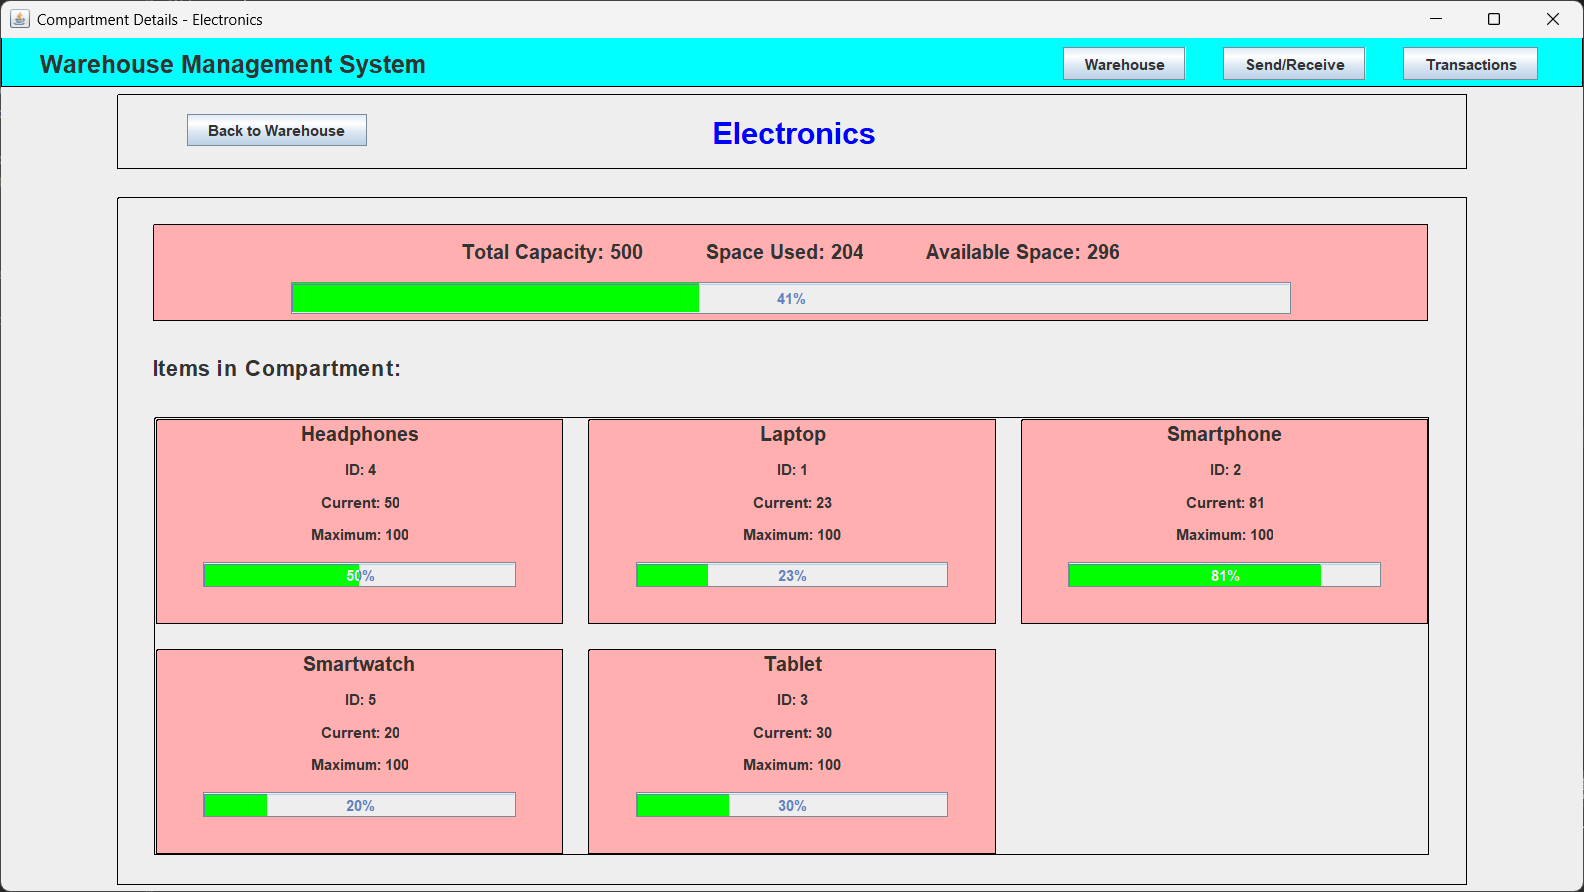
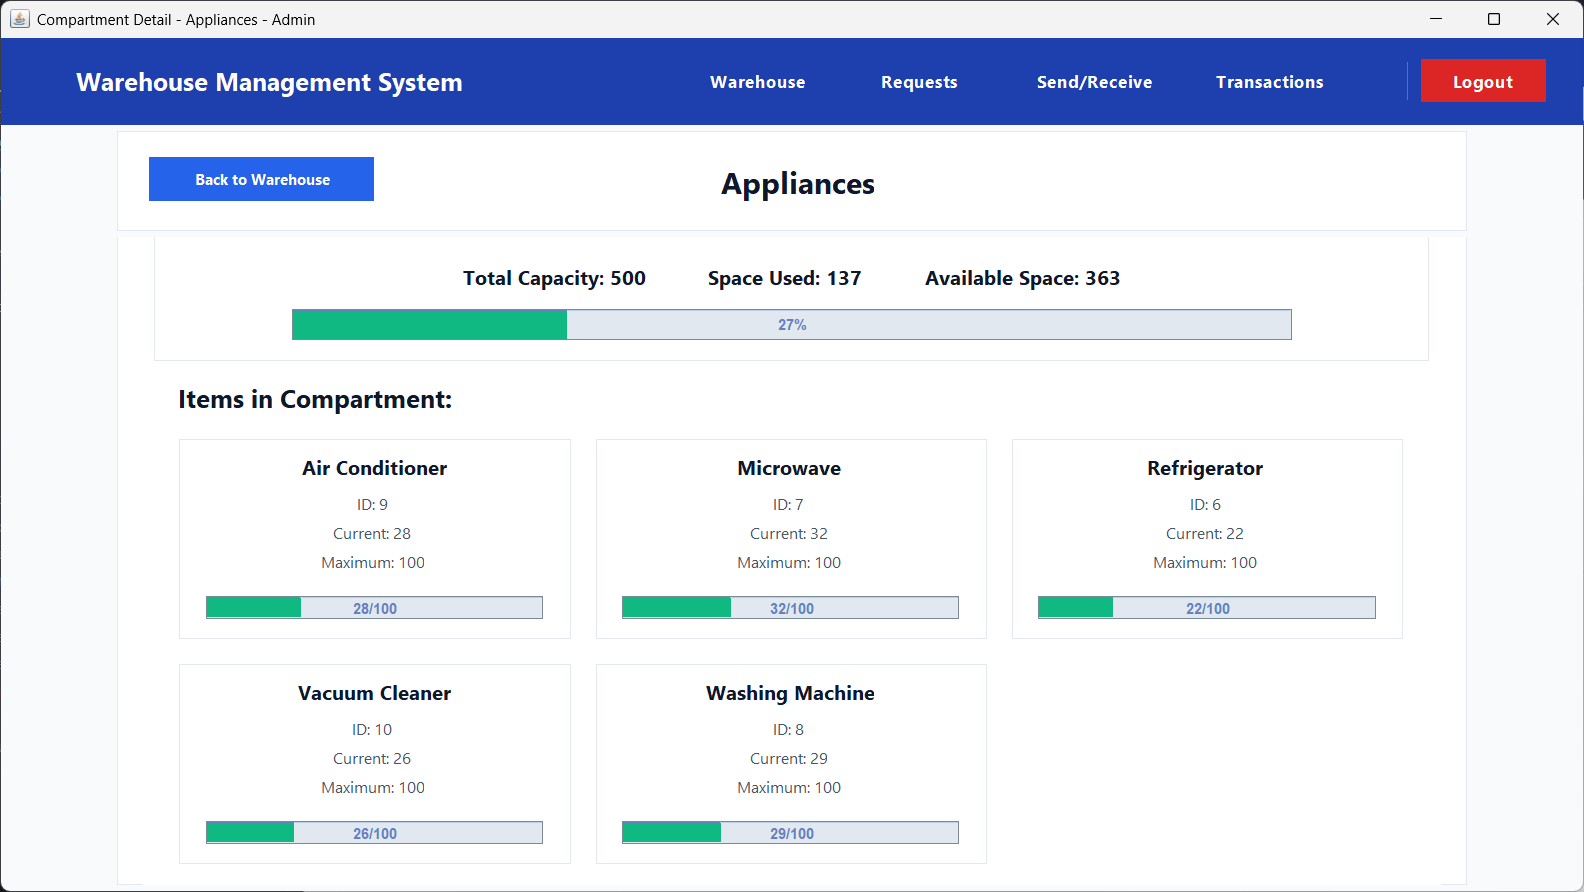
docs: updated README to include updated context

diff --git a/README.md b/README.md
@@ -1,19 +1,37 @@
 # Warehouse Management System
 
-A Java desktop application for warehouse inventory management, built with Swing.
+A Java desktop application for warehouse inventory management, built with Swing and JDBC.
 
 ## About This Project
 
-This application is a Java Swing recreation of the frontend from the [DBMS-Warehouse-System](https://github.com/RishiWaghmare12/DBMS-Warehouse-System) project, which was originally built using React. While the frontend has been reimplemented in Java Swing, the application still makes API calls to the original Node.js backend server deployed by Rishi Waghmare.
+This project is an enhanced version of [java_mini_proj](https://github.com/devinxhacker/java_mini_proj), which was originally a Java Swing recreation of the frontend from the [DBMS-Warehouse-System](https://github.com/RishiWaghmare12/DBMS-Warehouse-System) project.
+
+While the original mini project had only 5 pages and relied on a Node.js backend server for API calls, this major project has been completely redesigned to:
+1. Use JDBC for direct database connectivity (no external API server required)
+2. Add user authentication with admin and employee roles
+3. Implement a request approval system
+4. Include additional pages and functionality
 
 ## Features
 
+- User authentication with separate admin and employee portals
 - Warehouse overview with categories and items
-- Send/receive items functionality
-- Transaction history
+- Send/receive items functionality with approval workflow
+- Transaction history with improved UI
 - Space utilization tracking
+- Employee request management
+- Direct database connectivity via JDBC
 
 ## Screenshots
+
+### Admin Login
+![Admin Login](screenshots/AdminLogin.png)
+
+### Employee Login
+![Employee Login](screenshots/EmployeeLogin.png)
+
+### Employee Registration
+![Employee Registration](screenshots/EmployeeRegister.png)
 
 ### Home Page
 ![Home Page](screenshots/Home.png)
@@ -24,32 +42,39 @@ This application is a Java Swing recreation of the frontend from the [DBMS-Wareh
 ### Compartment Detail
 ![Compartment Detail](screenshots/CompartmentDetail.png)
 
-### Send/Receive Items
-![Send/Receive Items](screenshots/SendReceive.png)
+### Admin Portal (Request Management)
+![Admin Portal](screenshots/AdminPortal.png)
+
+### Admin Send/Receive Items
+![Admin Send/Receive Items](screenshots/AdminSendReceive.png)
+
+### Employee Requests
+![Employee Requests](screenshots/EmployeeRequests.png)
 
 ### Transactions History
 ![Transactions History](screenshots/Transactions.png)
 
 ## Requirements
 
-- Java 23 or higher
+- Java 21 or higher
+- PostgreSQL database (connection is pre-configured)
 
 ## Quick Start
 
 ### Option 1: Download Released JAR
 
-1. Download from [Releases](https://github.com/devinxhacker/java_mini_proj/releases)
+1. Download from [Releases](https://github.com/devinxhacker/java_major_proj/releases)
 2. Run: `java -jar warehouse-management-system.jar`
 
 ### Option 2: Build from Source
 
 1. Clone the repository:
    ```
-   git clone https://github.com/devinxhacker/java_mini_proj.git
+   git clone https://github.com/devinxhacker/java_major_proj.git
    ```
 2. Navigate to the project:
    ```
-   cd java_mini_proj
+   cd java_major_proj
    ```
 3. Build with Maven:
    ```
@@ -64,17 +89,17 @@ This application is a Java Swing recreation of the frontend from the [DBMS-Wareh
 
 1. Clone the repository:
    ```
-   git clone https://github.com/devinxhacker/java_mini_proj.git
+   git clone https://github.com/devinxhacker/java_major_proj.git
    ```
 2. Navigate to the project:
    ```
-   cd java_mini_proj
+   cd java_major_proj
    ```
 3. Run Home.java directly:
    - Open in your favorite IDE
-   - Run the main method in `src/main/ui/pages/Home.java`
+   - Run the main method in `src/main/ui/pages/EmployeeLogin.java` (entry point)
    - Or compile and run from command line:
      ```
-     javac -d bin src/main/ui/pages/Home.java
-     java -cp bin main.ui.pages.Home
-     ``` 
+     javac -d bin src/main/ui/pages/EmployeeLogin.java
+     java -cp bin main.ui.pages.EmployeeLogin
+     ```
